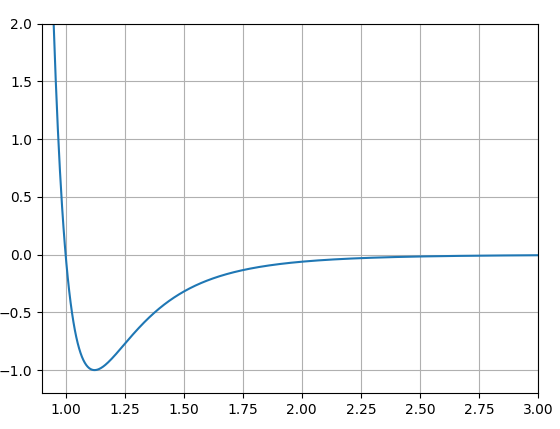
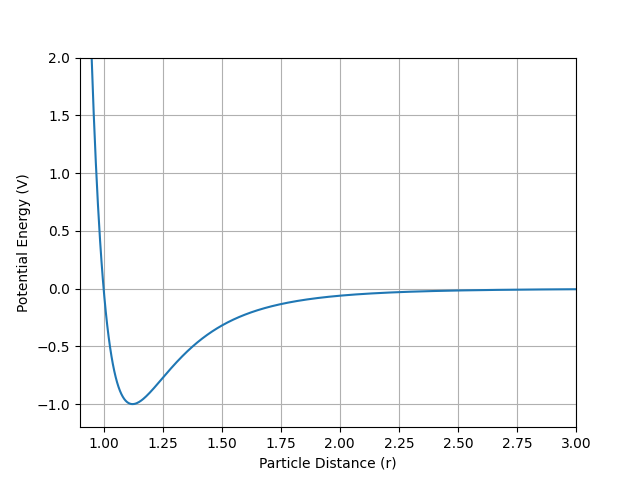
Added axes to LennardJonesPlot.png

diff --git a/LennardJonesPotential/src/LennardJonesPotential.py b/LennardJonesPotential/src/LennardJonesPotential.py
@@ -18,6 +18,8 @@ def main():
     plt.ylim(-1.2, 2)
     plt.xlim(0.9, 3)
     plt.grid(True)
+    plt.ylabel("Potential Energy (V)")
+    plt.xlabel("Particle Distance (r)")
     
     plt.show()
 